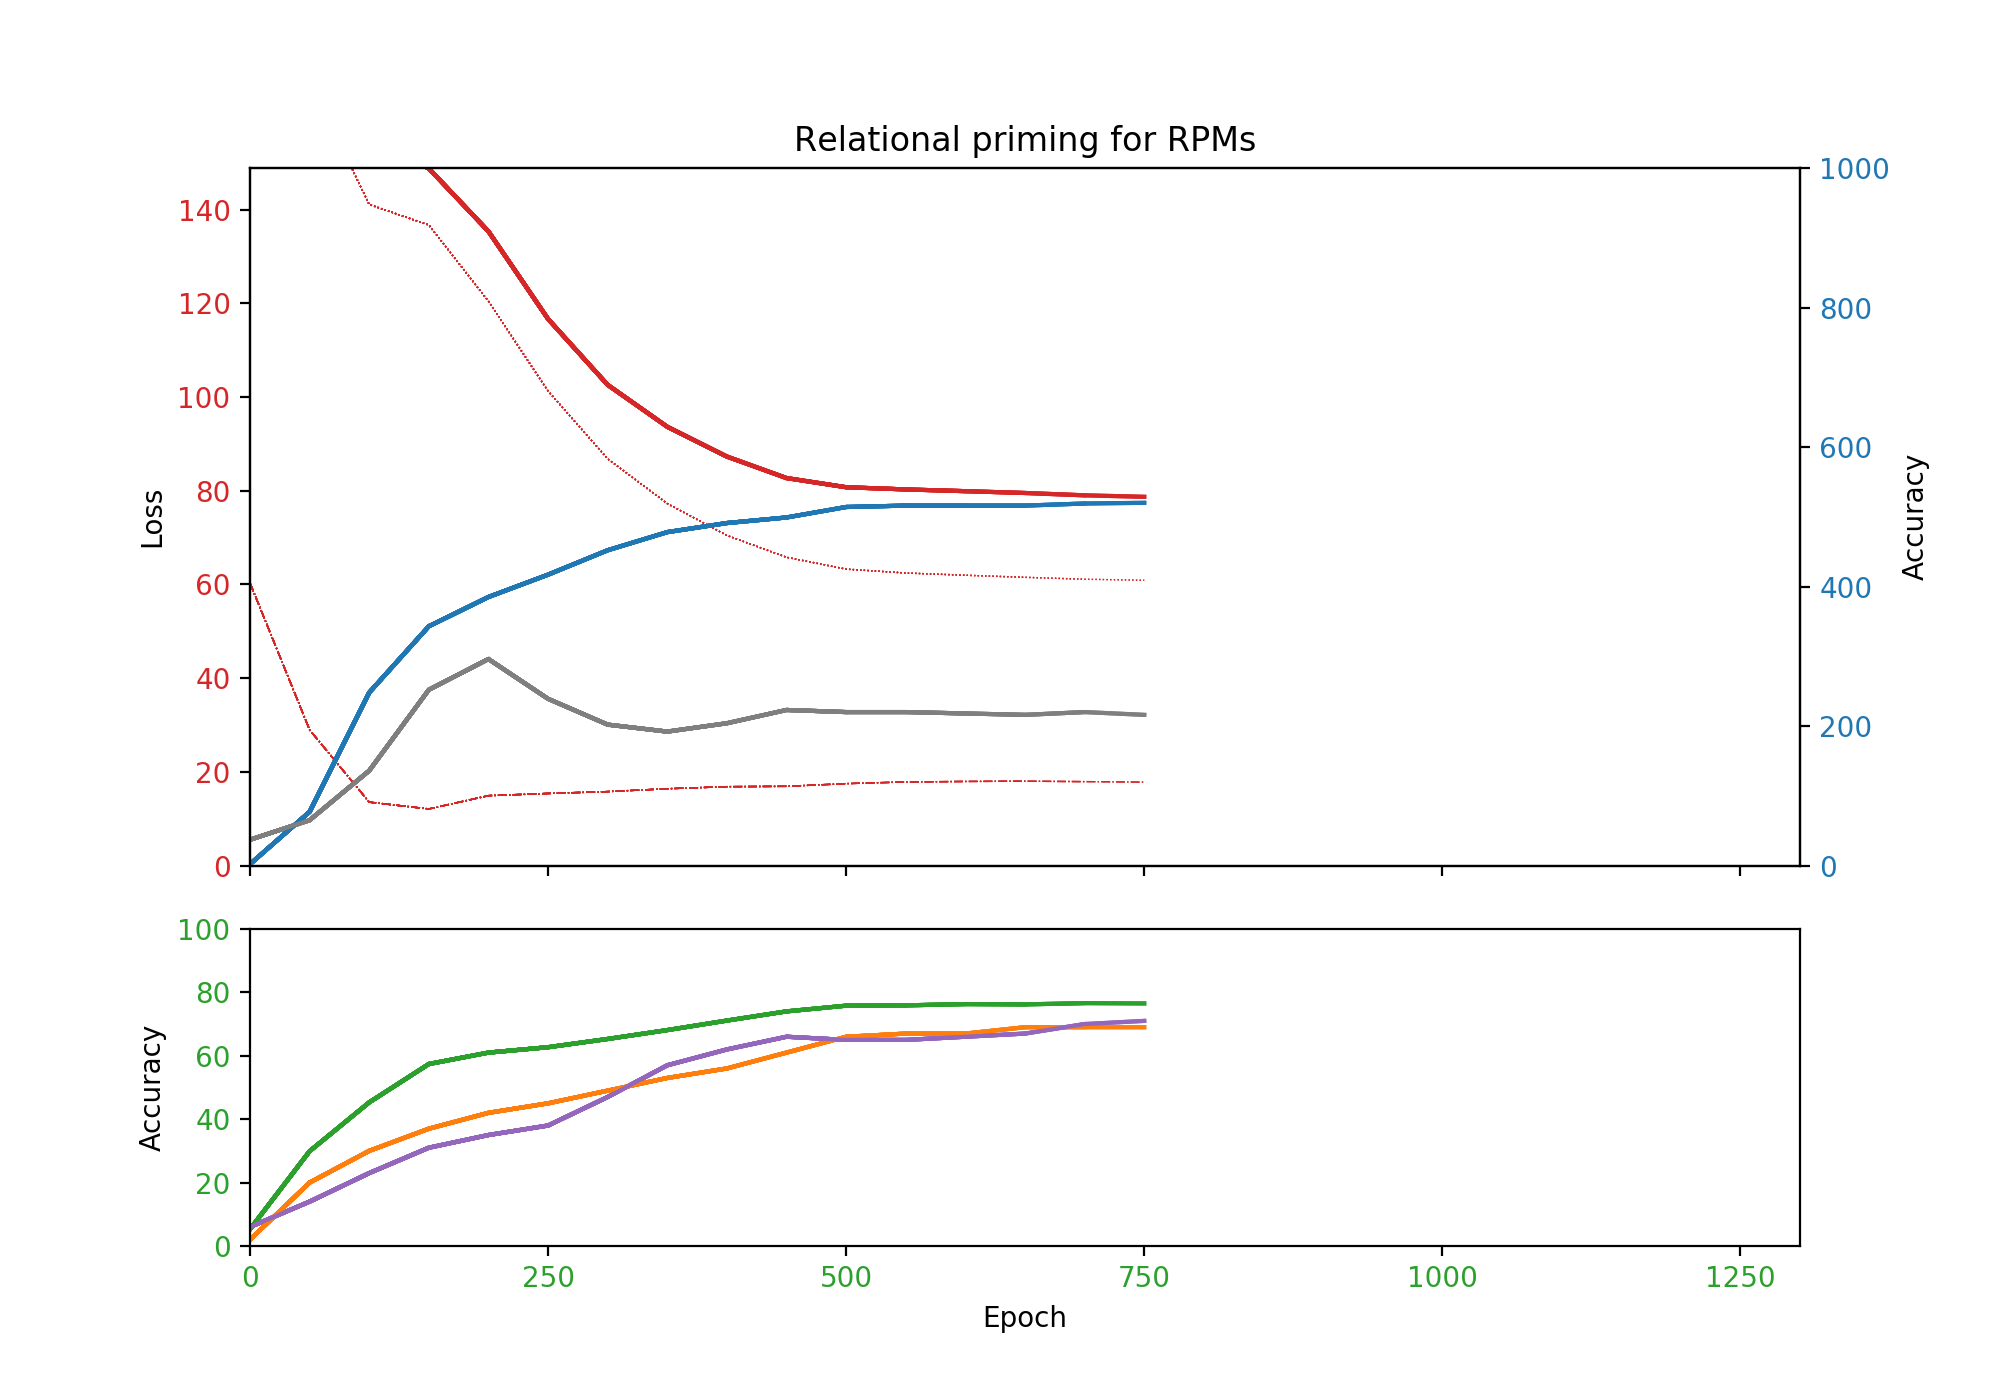
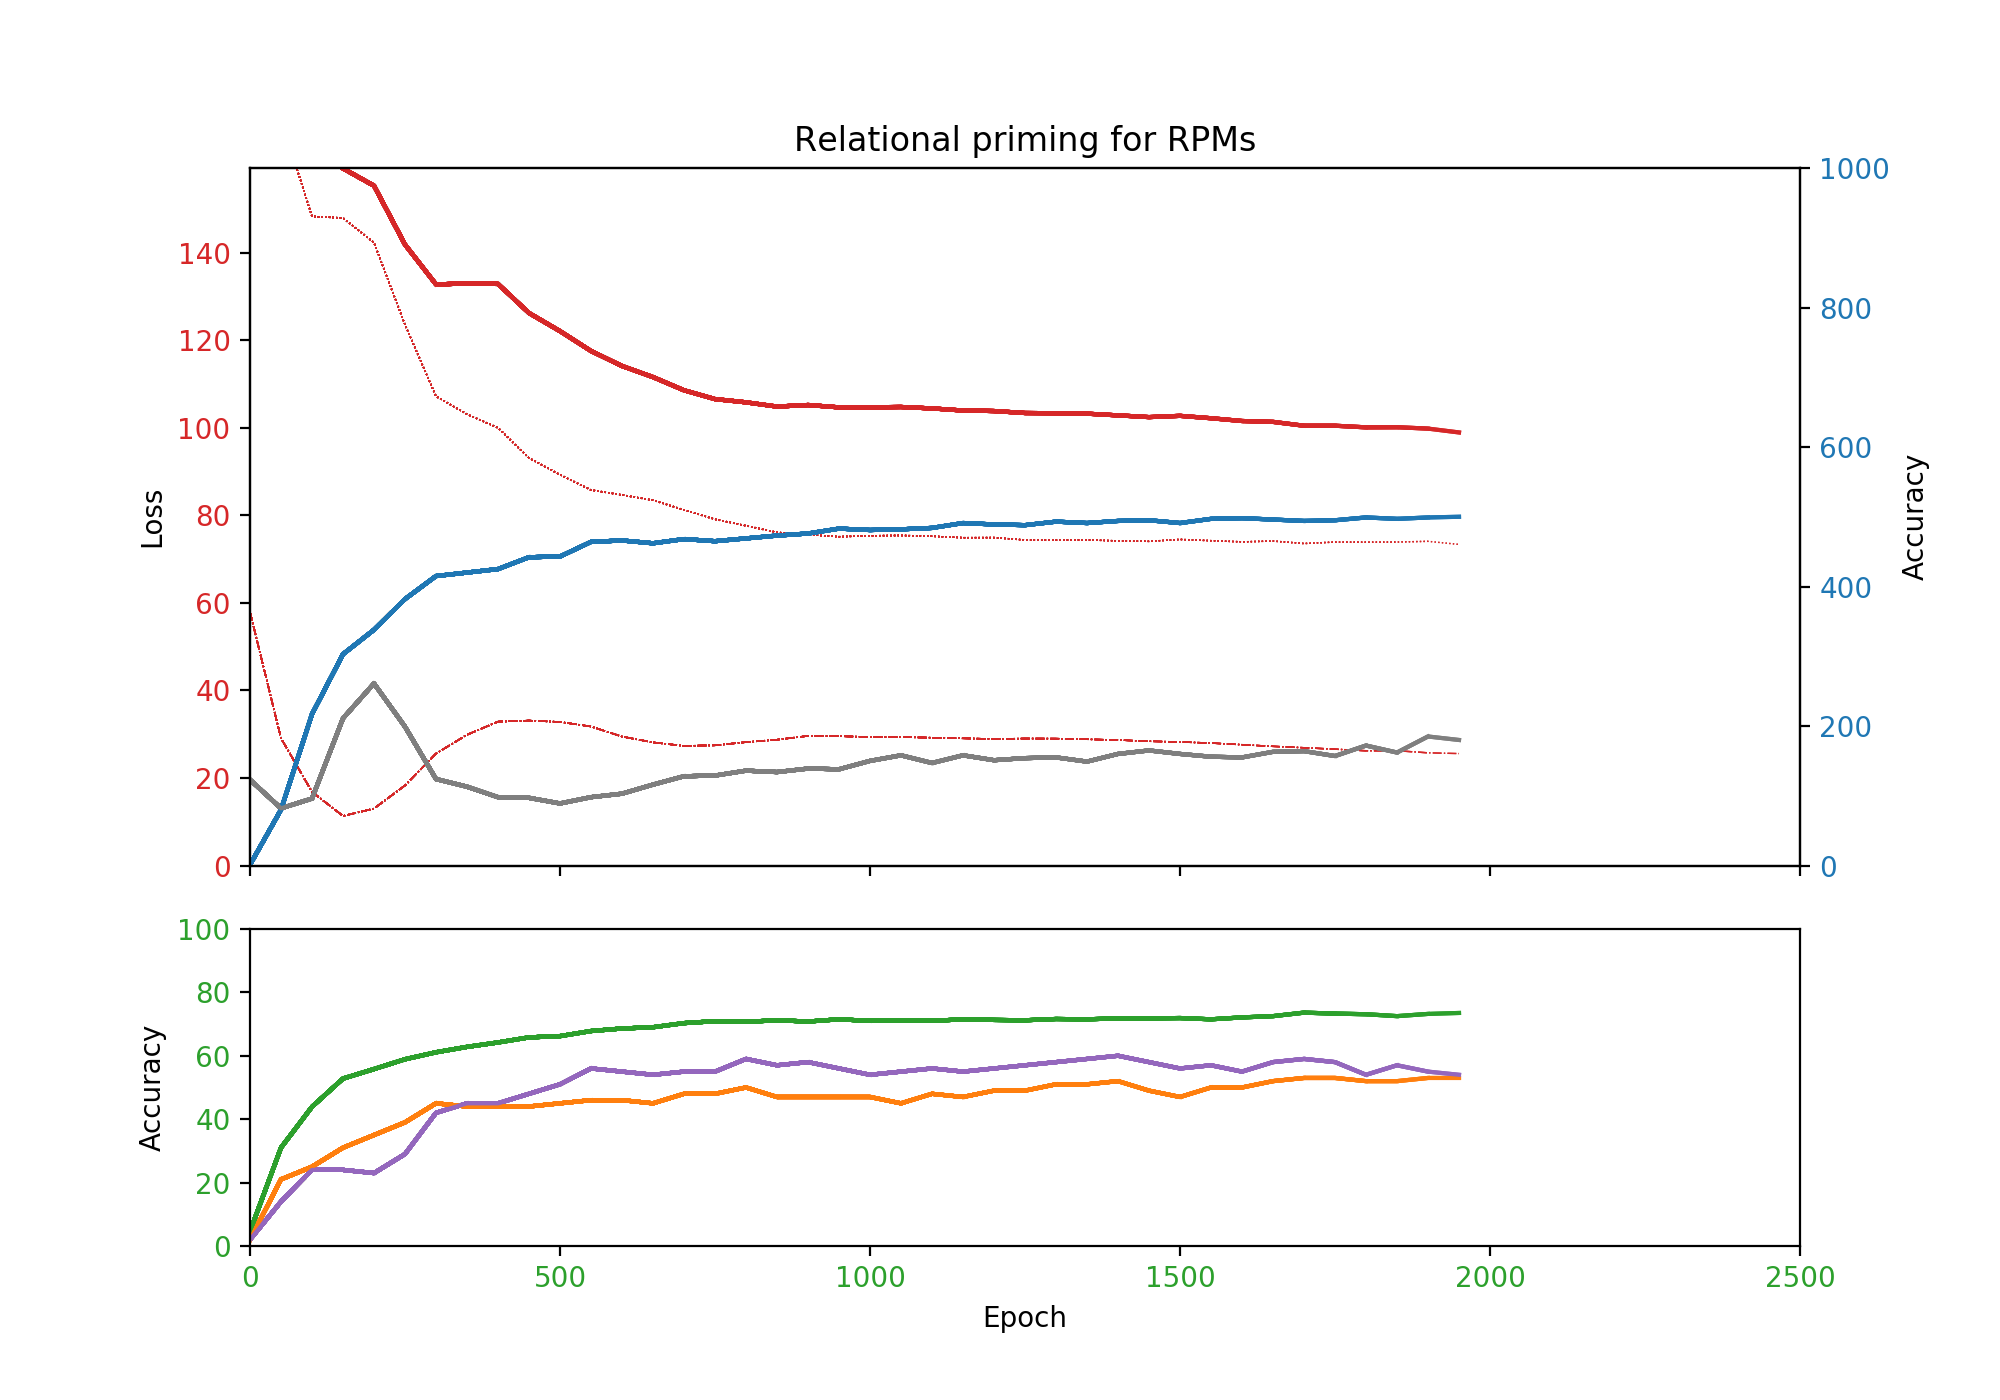
Good performance with even a single hidden unit.
73% 2x2
More than 50% 3x2 and 3x3.

diff --git a/RPM.py b/RPM.py
@@ -507,7 +507,7 @@ candidates = [item[1] for item in tuples]
 patterns_array = np.asarray(patterns)
 analogies_array = np.asarray(analogies)
 
-network = Network(n_inputs=11, n_transformation=4, n_hidden=6, n_outputs=11, training_data=patterns_array, test_data=analogies_array, candidates=candidates, desired_response_function=target, collect_statistics_function=collect_statistics)
+network = Network(n_inputs=11, n_transformation=4, n_hidden=1, n_outputs=11, training_data=patterns_array, test_data=analogies_array, candidates=candidates, desired_response_function=target, collect_statistics_function=collect_statistics)
 
 #%%
 # Plot the Error by epoch
